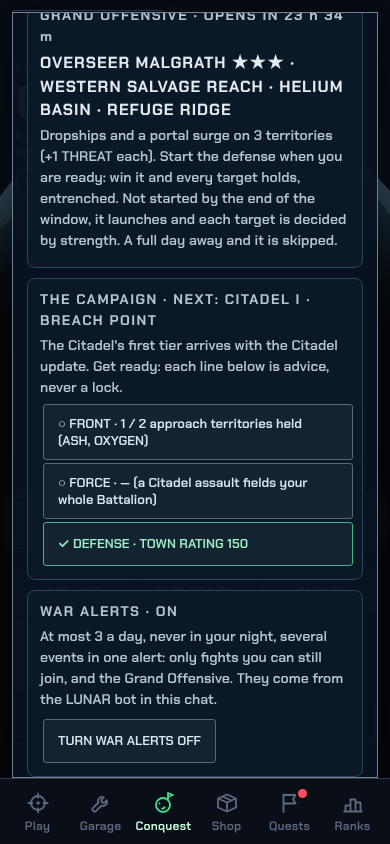
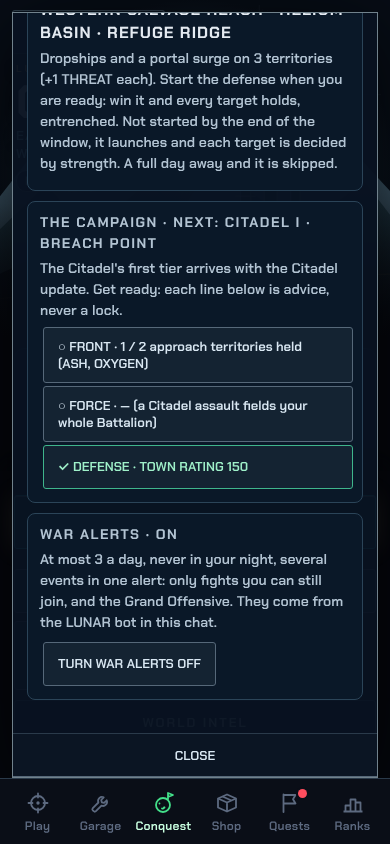
fix(war): War Map dialog in block flow (sticky CLOSE floated over the map at 390x700); browser test passes at all five sizes
Claude-Session: https://claude.ai/code/session_014ynx7yEjiVDjDkWTxGPMbZ

diff --git a/css/war.css b/css/war.css
@@ -1,12 +1,12 @@
 /* Session 7 Living Front screens (js/conquest/warmap.js): the WAR MAP, the territory, campaign and Grand Offensive cards, the WAR
    REPORT and the war-alert cards. Phone first: one column that scrolls (the NEXT ORDER and its button above the board); from 900 px
    wide the board and the cards sit side by side. Sized inside the JS-sized Conquest panel (never vh). */
-.cq-dialog.cq-warmap{max-width:1180px;padding:0 14px 0;display:flex;flex-direction:column;background:#081220f7;scroll-padding-top:64px}
+.cq-dialog.cq-warmap{max-width:1180px;padding:0 14px 0;display:block;background:#081220f7;scroll-padding-top:64px}   /* block flow: a flex column let the body shrink and the sticky CLOSE float mid-screen (found by the 390x700 test) */
 .cq-dialog.cq-warmap .wm-close{margin:0 -14px 6px;width:calc(100% + 28px);position:sticky;top:0}
 .wm-head{padding:0 0 6px}.wm-head h2{margin:2px 0 6px;font-size:22px;letter-spacing:2px}
 .wm-chips{display:flex;gap:6px;flex-wrap:wrap}.wm-chip{display:inline-flex;align-items:center;min-height:28px;padding:3px 10px;border-radius:14px;font:700 12px 'Chakra Petch',sans-serif;letter-spacing:1px;border:1px solid}
 .wm-moon{color:#7ff3e0;border-color:#2fbfb0;background:#0b2a2a}.wm-frontline{color:#ffd58a;border-color:#a7843f;background:#2a2110}
-.wm-body{display:flex;flex-direction:column;gap:10px;min-height:0}.wm-side{display:flex;flex-direction:column;gap:10px;min-width:0}.wm-map-col{min-width:0}
+.wm-body{display:flex;flex-direction:column;gap:10px}.wm-side{display:flex;flex-direction:column;gap:10px;min-width:0}.wm-map-col{min-width:0}
 .wm-board{position:relative;border:1px solid #2b4458;border-radius:8px;background:#060d18;overflow:hidden}
 .wm-svg{display:block;width:100%;height:auto;aspect-ratio:1000/760;touch-action:manipulation;user-select:none;-webkit-user-select:none}
 .wm-bg{fill:#061019}.wm-edge{stroke:#2a4357;stroke-width:4}.wm-edge.wm-front{stroke:#ff4fa3;stroke-width:7;stroke-dasharray:14 8;filter:drop-shadow(0 0 6px #ff3c9a)}

diff --git a/dev/tests/conquest-war-browser.py b/dev/tests/conquest-war-browser.py
@@ -64,7 +64,11 @@ async def main():
     node=page.locator('.cq-warmap .wm-t[data-t="oxygen"]')
     if mobile:
      await page.evaluate('document.querySelector(\'.cq-warmap .wm-t[data-t="oxygen"]\').scrollIntoView({block:"center"})');await page.wait_for_timeout(150)
-     nb=await node.bounding_box();await page.touchscreen.tap(nb['x']+nb['width']/2,nb['y']+nb['height']/2)   # a real touch at the node (its pulse ring animates, so no 'stable' wait)
+     nb=await node.bounding_box();cx,cy=nb['x']+nb['width']/2,nb['y']+nb['height']/2
+     hit=await page.evaluate(f'(()=>{{const e=document.elementFromPoint({cx},{cy});return (e&&(e.closest(".wm-t")?.dataset.t||e.className?.baseVal||e.className||e.tagName))+""}})()')
+     rects=await page.evaluate('(()=>{const r=s=>{const e=document.querySelector(s);if(!e)return null;const b=e.getBoundingClientRect();return [Math.round(b.top),Math.round(b.bottom)]};return {dlg:r(".cq-dialog.cq-warmap"),close:r(".cq-warmap .cq-close-bottom"),side:r(".wm-side"),map:r(".wm-board")}})()')
+     assert hit=='oxygen',('the node is covered at its centre',hit,nb,rects)
+     await page.touchscreen.tap(cx,cy)   # a real touch at the node (its pulse ring animates, so no 'stable' wait)
     else:
      await node.focus();await page.keyboard.press('Enter')
     await page.wait_for_selector('.cq-warmap .wm-terr',timeout=10000);card=await page.locator('.wm-terr').inner_text()

diff --git a/docs/conquest/IMPLEMENTATION_CHECKPOINT.md b/docs/conquest/IMPLEMENTATION_CHECKPOINT.md
@@ -6576,10 +6576,12 @@ If your context was cleared, read docs/conquest/audit/SESSION_07_BRIEF.md first;
   campaign + Grand Offensive cards, a real swipe reaches the last card). New tests added to conquest-check.yml. Phone layout:
   `.wm-top-card` (next order / picked territory) above the board; computer: board left, cards right. CITADEL label moved in.
   Local: `pip install playwright==1.55.0` (CI's pin) and the preinstalled Chromium.
-- **IN PROGRESS:** at 390x700 the touch tap on the Oxygen node does not open its card (waits for `.wm-terr`): debug (screenshot
-  at the tap; maybe the tap lands on the sticky CLOSE bar or the node's hit circle is under `.wm-top-card`), then 320x568,
-  1366x768 (keyboard Enter), 1920x1080.
-- **Next, in order:** (3) optional Worker HTTP test; (5) finish the browser test `dev/tests/conquest-war-browser.py` (War Map, cards, War Report at
+- **Done:** the browser test PASSES at all five sizes (390x844, 390x700, 320x568 touch; 1366x768, 1920x1080 mouse + keyboard).
+  It caught a real bug: the War Map dialog's flex column let its body shrink, so the sticky CLOSE floated mid-screen over the
+  map at 390x700 (fixed: block flow). Pictures in docs/conquest/session7/.
+- **Next, in order:** (A) the full test list on the final code (every node + browser test in the workflows, conquest-session6c.py,
+  perf.py); (B) two independent reviewers; (C) release (merge main first; dev/bump.sh; PR with the `owner-rules-change` label;
+  CI; merge; verify; ROADMAP row 7 RELEASED + row 7-V + 7T note; release record). Older plan items for reference: (5) the browser test `dev/tests/conquest-war-browser.py` (War Map, cards, War Report at
   390x844, 390x700, 320x568 touch and 1366x768, 1920x1080 mouse; fits or scrolls; keyboard) using `dev/tests/conquest-server.mjs`
   with a new war fixture; (6) add every new test to `.github/workflows/conquest-check.yml` (small additive edit); (7) full suite,
   reviewers, release.
